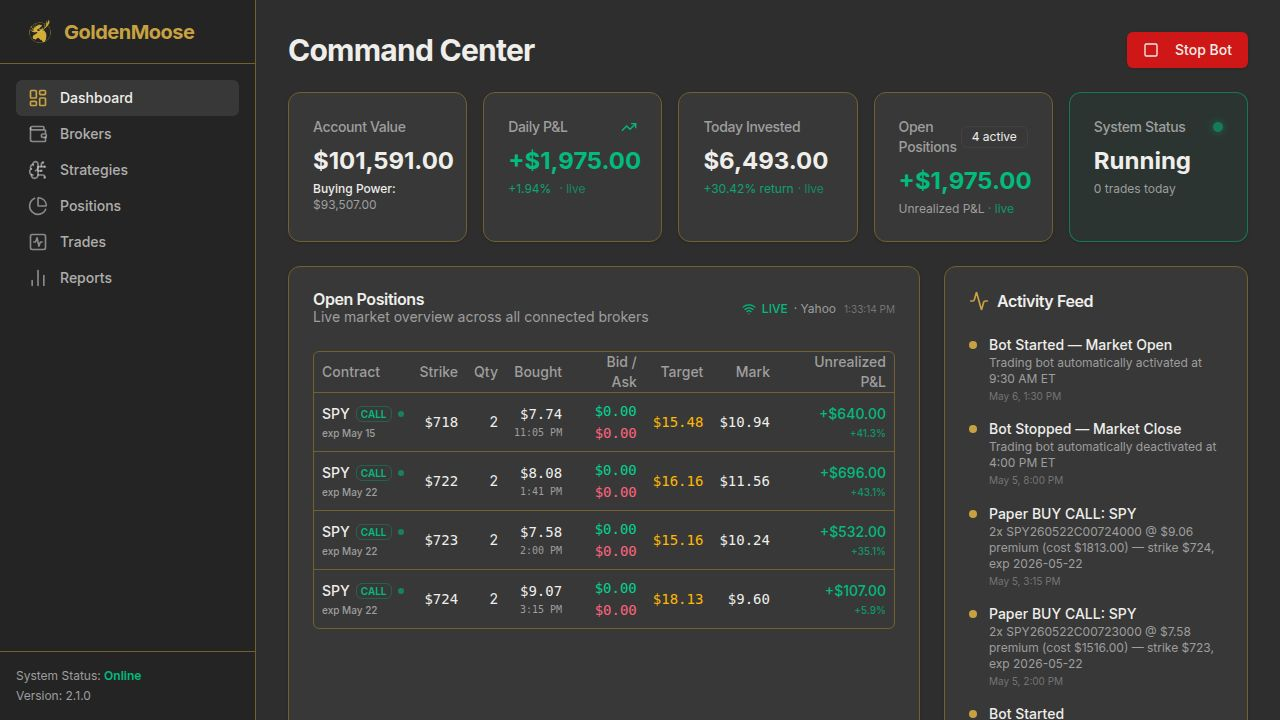
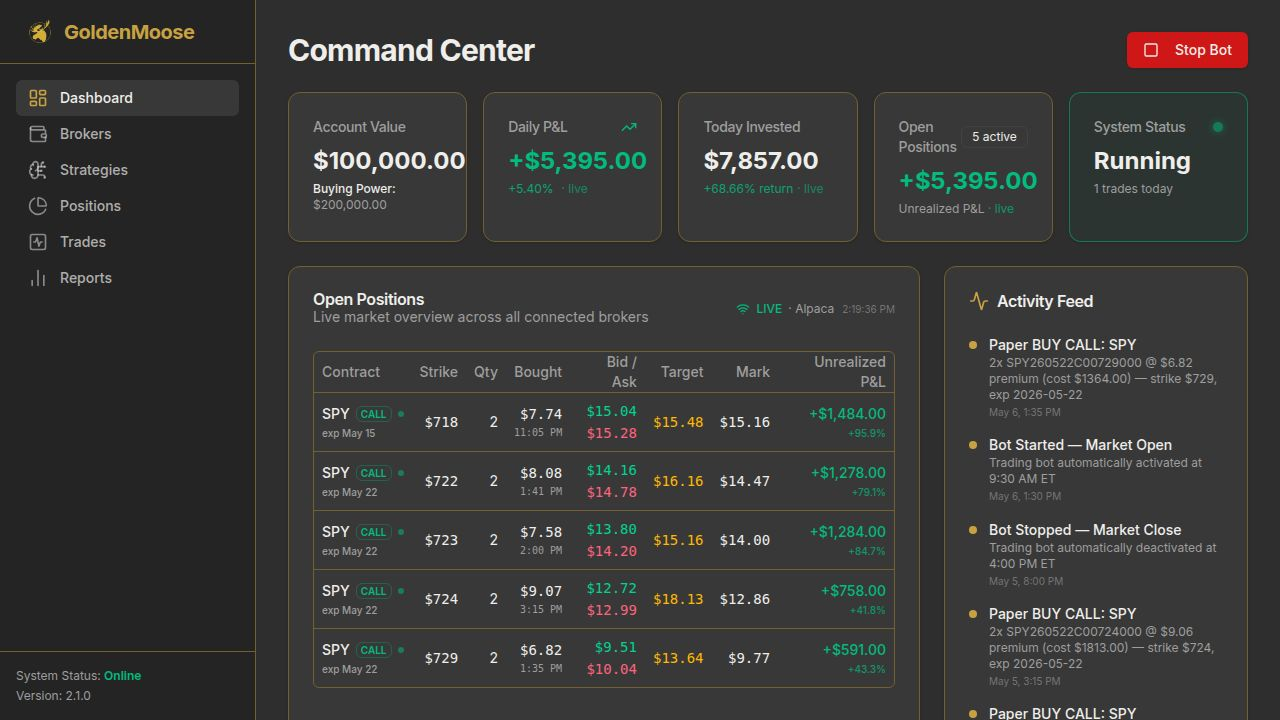
Fix error that prevents selling options at target price
Update scheduler logic to use live prices for each option contract when checking stop-loss and take-profit levels.

Replit-Commit-Author: Agent
Replit-Commit-Session-Id: aadbeaf0-055d-4930-80ef-e783a1fe98ad
Replit-Commit-Checkpoint-Type: full_checkpoint
Replit-Commit-Event-Id: 9d080ad6-f238-43bc-b026-73ad28afb175
Replit-Commit-Screenshot-Url: https://storage.googleapis.com/screenshot-production-us-central1/a207f436-3b04-410e-838e-0ed2e0a93579/aadbeaf0-055d-4930-80ef-e783a1fe98ad/aW793yu
Replit-Helium-Checkpoint-Created: true

diff --git a/artifacts/api-server/src/lib/scheduler.ts b/artifacts/api-server/src/lib/scheduler.ts
@@ -4,6 +4,7 @@ import { eq } from "drizzle-orm";
 import { logger } from "./logger";
 import { evaluateDecisionTable } from "./decisionEngine";
 import { fetchMarketData, fetchSpyOptionsChain } from "./marketData";
+import { fetchLiveOptionPrices } from "./liveQuotes";
 import {
   ensurePaperBroker,
   executePaperBuy,
@@ -104,18 +105,31 @@ async function runOptionsCycle(
   const callPremium = chain?.call?.midPrice ?? chain?.call?.lastPrice ?? 0;
   const putPremium = chain?.put?.midPrice ?? chain?.put?.lastPrice ?? 0;
 
-  // ── 3. Check SL/TP on every open position ──────────────────────────────
+  // ── 3. Check SL/TP on every open position using that position's own live price ──
   const openPositions = await getAllOpenOptionsPositions(brokerId, strategyId);
+
+  // Fetch real prices for each held contract — not a generic ATM proxy
+  const heldSymbols = openPositions.map((p) => p.contractSymbol).filter((s): s is string => !!s);
+  const liveQuotes = heldSymbols.length > 0 ? await fetchLiveOptionPrices(heldSymbols) : {};
 
   for (const pos of openPositions) {
     const isCall = pos.optionType === "call" || pos.side === "long_call";
-    // Use the current ATM premium for the matching direction as a proxy price
-    const currentPremium = isCall ? callPremium : putPremium;
+    const quote = pos.contractSymbol ? liveQuotes[pos.contractSymbol] : null;
+
+    // Use live mark for the specific contract; fall back to ATM premium only if no quote
+    const currentPremium = quote?.mark && quote.mark > 0
+      ? quote.mark
+      : (isCall ? callPremium : putPremium);
 
     if (currentPremium <= 0) continue;
 
     const entryPrice = parseFloat(pos.entryPrice);
     const changePct = entryPrice > 0 ? ((currentPremium - entryPrice) / entryPrice) * 100 : 0;
+
+    logger.info(
+      { contract: pos.contractSymbol, entryPrice, currentPremium, changePct: changePct.toFixed(1), tpThreshold: takeProfitPercent, slThreshold: -stopLossPercent },
+      "SL/TP check",
+    );
 
     let trigger: "stop_loss" | "take_profit" | null = null;
     if (changePct <= -stopLossPercent) trigger = "stop_loss";